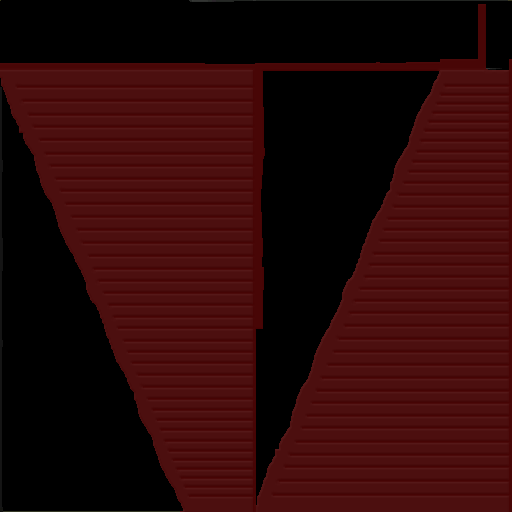
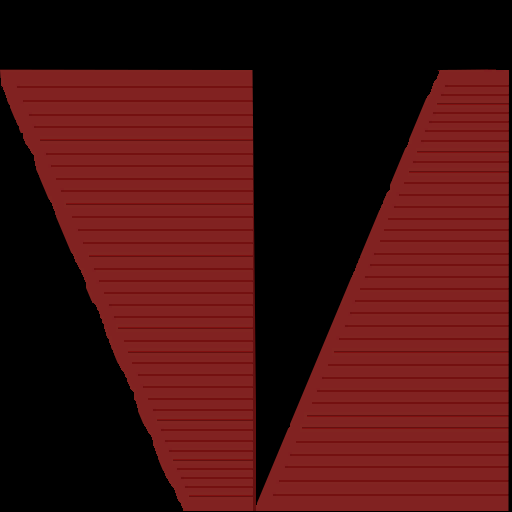
Fixed emissive of large, normal  and inline radiators
Inline and large red color is now bright as the other radiators and the
normal radiator color follows the same scale as the others.

diff --git a/FNPlugin/FNRadiator.cs b/FNPlugin/FNRadiator.cs
@@ -273,7 +273,6 @@ namespace FNPlugin {
 
 			update_count++;
 
-
 		}
 
         public void colorHeat()
@@ -324,7 +323,7 @@ namespace FNPlugin {
                              GameDatabase.Instance.GetTexture("WarpPlugin/Parts/Electrical/LargeFlatRadiator/radtex_n", false));
 
                 } else if (part.name.StartsWith("radiator")) {
-                    emissiveColor = new Color (temperatureRatio*2.0f, 0.0f, 0.0f, 1.0f);
+                    // radiators have already everything set up
                 }
                 else // uknown raidator
                 {
